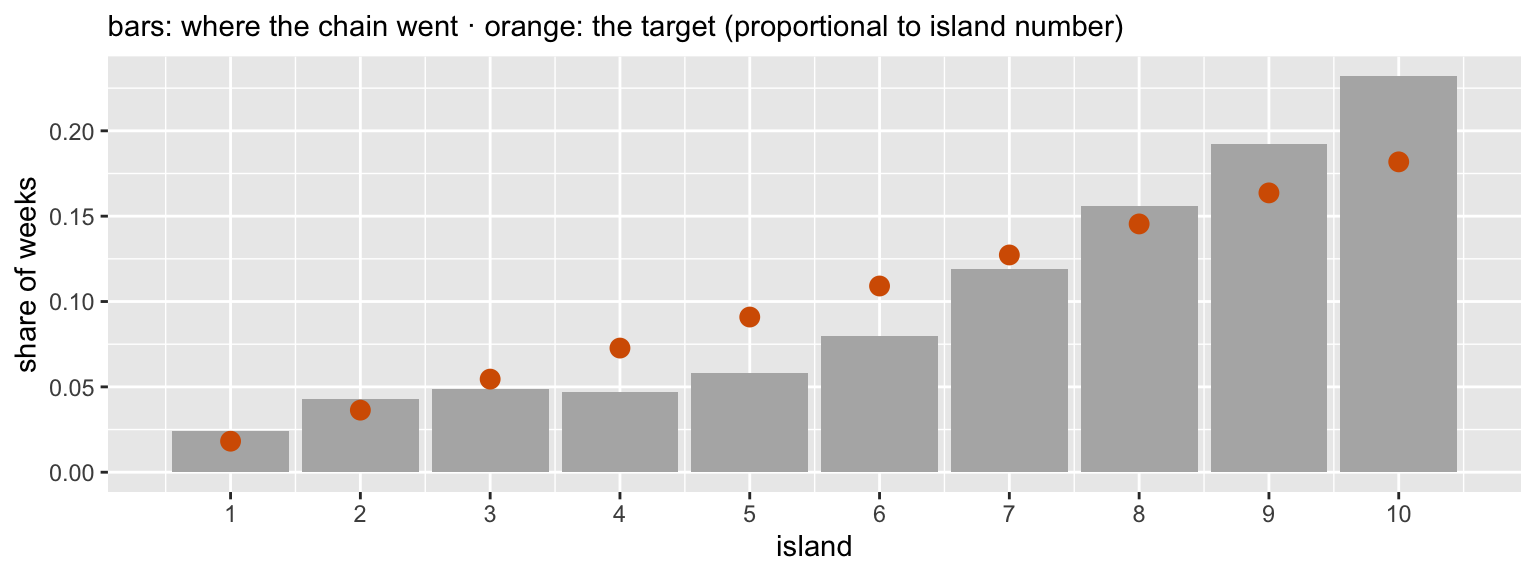
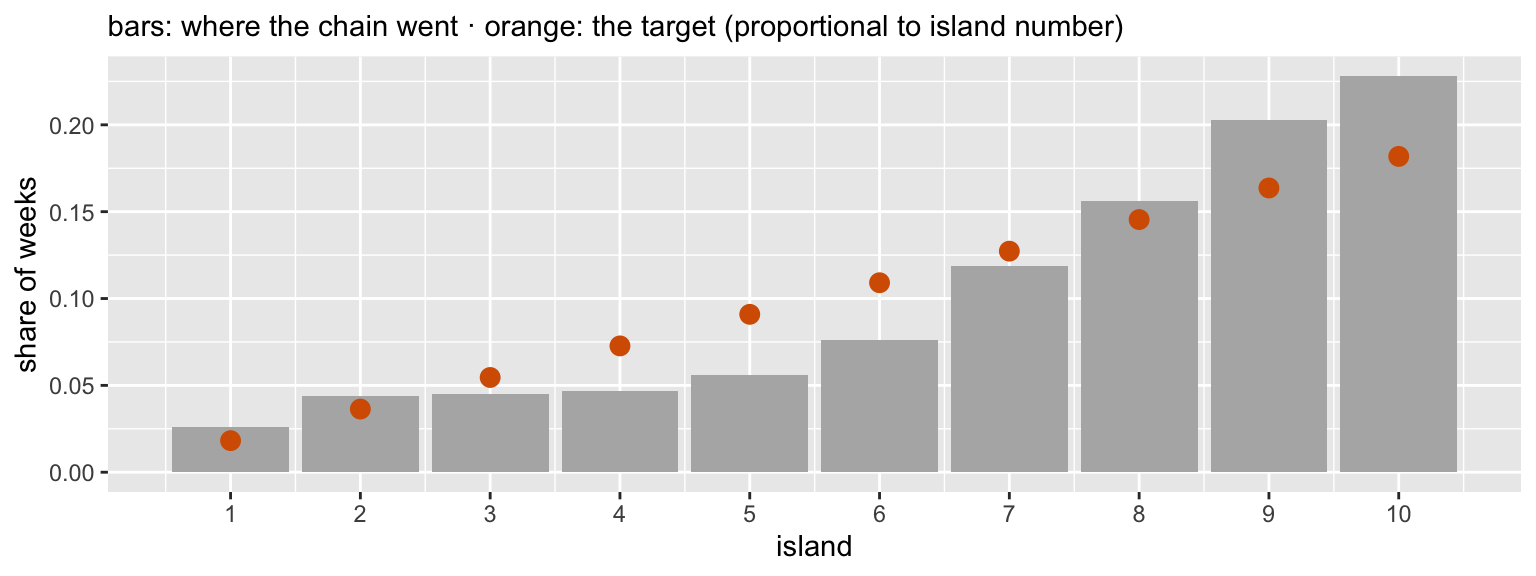
Lecture 5: define the evidence on the escape-2 slide, explain why a sampler compares two values, drop the acceptance-ratio aside

diff --git a/_site/mcmc-5.html b/_site/mcmc-5.html
@@ -287,11 +287,11 @@
 <section id="escape-2-we-dont-need-the-evidence" class="slide level2 smaller">
 <h2>Escape 2: we don’t need the evidence</h2>
 <p><span class="math display">\[p(\theta | data) = \frac{p(data | \theta) \times p(\theta )}{p(data)}\]</span></p>
-<p>The evidence doesn’t depend on <span class="math inline">\(\theta\)</span>: it’s the same number for every possible value. So</p>
-<p><span class="math display">\[ p(\theta | data) \propto p(data | \theta) \times p(\theta ) \]</span> “The posterior is proportional to the likelihood × the prior.”</p>
-<p>And when we <strong>compare</strong> two values of <span class="math inline">\(\theta\)</span>, the evidence cancels:</p>
+<p>The denominator, <span class="math inline">\(p(data)\)</span>, is called the <strong>evidence</strong>: the probability of the data, averaged over every possible <span class="math inline">\(\theta\)</span>. It’s the same number for every value of <span class="math inline">\(\theta\)</span>, so the posterior is proportional to the likelihood × the prior:</p>
+<p><span class="math display">\[ p(\theta | data) \propto p(data | \theta) \times p(\theta ) \]</span></p>
+<p>Why compare two values? A sampler moves from one value of <span class="math inline">\(\theta\)</span> to the next, and to decide whether to move it asks: “is this new value more plausible than the one I’m at?” In that comparison, the evidence cancels:</p>
 <p><span class="math display">\[\frac{p(\theta_1 | data)}{p(\theta_2 | data)} = \frac{p(data | \theta_1)\, p(\theta_1)}{p(data | \theta_2)\, p(\theta_2)}\]</span></p>
-<p>That’s all MCMC needs. It never computes the posterior’s height; it only asks “is this value more or less plausible than where I am now?” (the Metropolis acceptance ratio, coming up).</p>
+<p>That’s all MCMC needs: likelihood × prior, never the evidence.</p>
 </section>
 <section id="markov-chain-monte-carlo" class="slide level2 smaller">
 <h2>Markov Chain Monte Carlo</h2>
